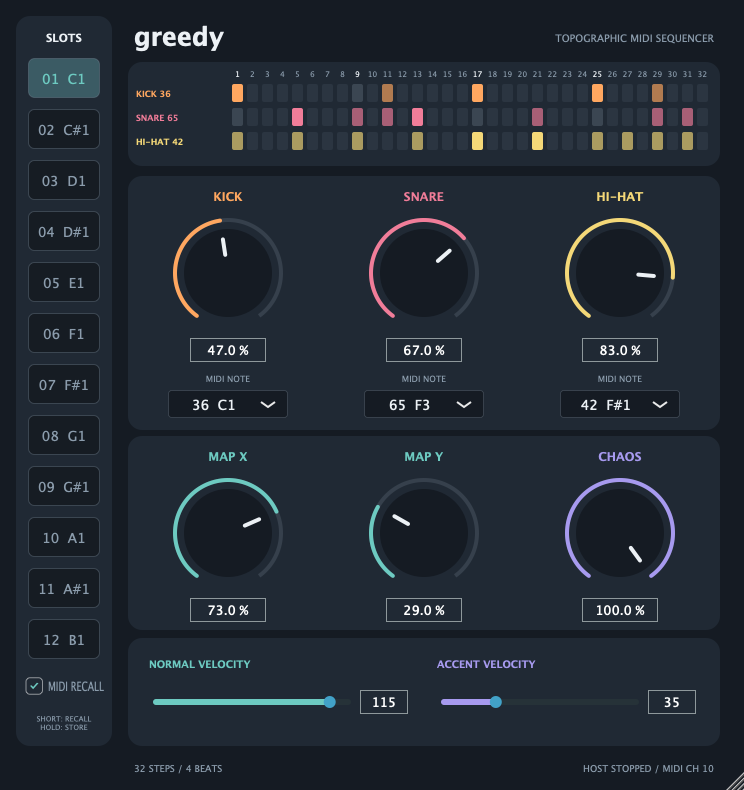
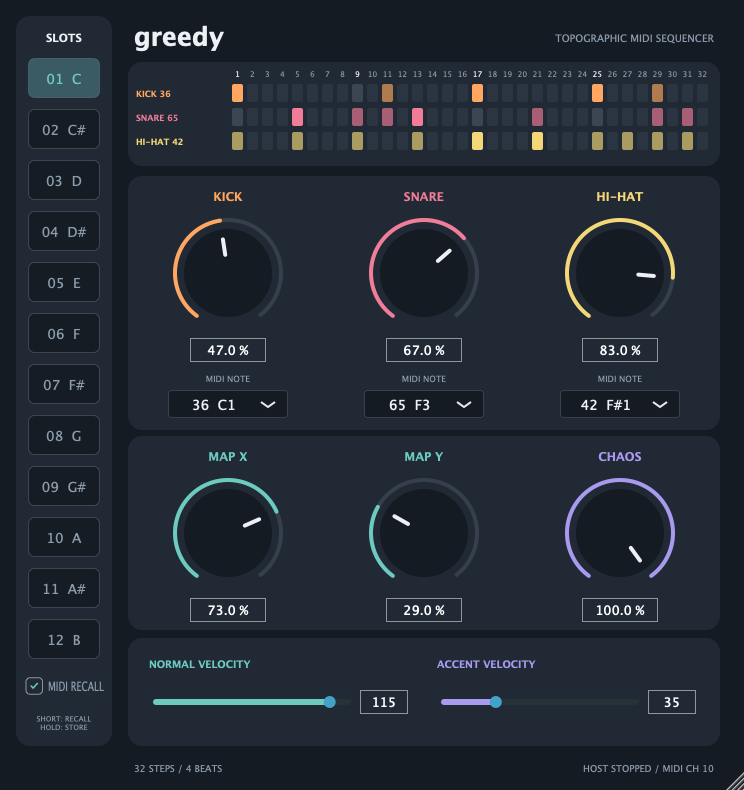
map all midi notes

diff --git a/Tests/PluginTests.cpp b/Tests/PluginTests.cpp
@@ -48,6 +48,9 @@ int main(int argc, char** argv)
             "plugin exposes no audio buses");
     require(processor.getParameters().size() == 12,
             "knobs, note selectors, velocity levels, and MIDI recall switch are parameters");
+    for (int note = 0; note < 128; ++note)
+        require(GreedyAudioProcessor::slotForMidiNote(note) == note % 12,
+                "every MIDI octave maps chromatically across the twelve slots");
 
     setParameter(processor, "kickDensity", 100);
     setParameter(processor, "snareDensity", 0);
@@ -76,9 +79,11 @@ int main(int argc, char** argv)
     require(first.getVelocity() == 47, "configured normal velocity reaches actual JUCE output");
 
     host.playing = false;
+    midi.clear();
     processor.processBlock(audio, midi);
     require(midi.getNumEvents() == 1 && (*midi.begin()).getMessage().isNoteOff(),
             "host stop releases the actual MIDI note");
+    midi.clear();
     processor.processBlock(audio, midi);
     require(midi.isEmpty(), "stopped processor stays silent");
     require(processor.getPatternDisplay().currentStep == -1,
@@ -107,13 +112,16 @@ int main(int argc, char** argv)
             "button recall does not change the global MIDI recall switch");
 
     host.playing = true;
+    midi.clear();
     processor.processBlock(audio, midi);
     require(!midi.isEmpty(), "restart generates a fresh note");
+    midi.clear();
     processor.processBlockBypassed(audio, midi);
     require(midi.getNumEvents() == 1 && (*midi.begin()).getMessage().isNoteOff(),
             "bypass releases held MIDI notes");
 
     processor.setPlayHead(nullptr);
+    midi.clear();
     processor.processBlock(audio, midi);
     require(midi.isEmpty(), "missing host transport produces no notes");
 
@@ -260,7 +268,7 @@ int main(int argc, char** argv)
     host.playing = true;
     host.ppq = 0.0;
     midi.clear();
-    midi.addEvent(juce::MidiMessage::noteOn(1, GreedyAudioProcessor::slotMidiNote(0),
+    midi.addEvent(juce::MidiMessage::noteOn(1, 84, // C in a high octave
                                            static_cast<juce::uint8>(100)), 0);
     processor.processBlock(audio, midi);
     require(midi.getNumEvents() == 1, "disabled slot trigger is consumed rather than passed through");
@@ -273,7 +281,7 @@ int main(int argc, char** argv)
     setParameter(processor, "midiRecallEnabled", 1);
     processor.prepareToPlay(48000, 512);
     midi.clear();
-    midi.addEvent(juce::MidiMessage::noteOn(1, GreedyAudioProcessor::slotMidiNote(0),
+    midi.addEvent(juce::MidiMessage::noteOn(1, 0, // C in the lowest MIDI octave
                                            static_cast<juce::uint8>(100)), 0);
     processor.processBlock(audio, midi);
     require(midi.getNumEvents() == 1, "slot trigger note is consumed rather than passed through");

diff --git a/Source/PluginEditor.cpp b/Source/PluginEditor.cpp
@@ -11,6 +11,9 @@ const std::array<juce::Colour, 6> accents {
     juce::Colour(0xffffa760), juce::Colour(0xfff17d99), juce::Colour(0xfff4d878),
     juce::Colour(0xff6dcac1), juce::Colour(0xff6dcac1), juce::Colour(0xffa79aef)
 };
+const std::array<const char*, 12> pitchClassNames {
+    "C", "C#", "D", "D#", "E", "F", "F#", "G", "G#", "A", "A#", "B"
+};
 constexpr int baseWidth = 744;
 constexpr int baseHeight = 790;
 constexpr int mainOffset = 104;
@@ -28,12 +31,12 @@ juce::AffineTransform contentTransform(int width, int height)
 GreedySlotButton::GreedySlotButton(GreedyAudioProcessor& p, int slotIndex)
     : processor(p), slot(slotIndex)
 {
-    const auto note = GreedyAudioProcessor::slotMidiNote(slot);
     setButtonText(juce::String(slot + 1).paddedLeft('0', 2) + "  "
-        + juce::MidiMessage::getMidiNoteName(note, true, true, 3));
+        + pitchClassNames[static_cast<std::size_t>(slot)]);
     setName("SLOT " + juce::String(slot + 1));
-    setTooltip("Short press: recall. Hold for 600 ms: store current settings. MIDI note "
-        + juce::String(note) + " recalls this slot.");
+    setTooltip("Short press: recall. Hold for 600 ms: store current settings. Every "
+        + juce::String(pitchClassNames[static_cast<std::size_t>(slot)])
+        + " note recalls this slot.");
     onClick = [this]
     {
         if (!longPressTriggered)
@@ -137,7 +140,8 @@ GreedyAudioProcessorEditor::GreedyAudioProcessorEditor(GreedyAudioProcessor& p)
     }
     midiRecallToggle.setButtonText("MIDI RECALL");
     midiRecallToggle.setName("MIDI SNAPSHOT RECALL");
-    midiRecallToggle.setTooltip("Enable MIDI notes C1-B1 to recall slots. Slot buttons remain active.");
+    midiRecallToggle.setTooltip("Enable MIDI notes in every octave to recall slots by pitch class. "
+                                "Slot buttons remain active.");
     midiRecallToggle.setColour(juce::ToggleButton::tickColourId, accents[3]);
     midiRecallToggle.setColour(juce::ToggleButton::textColourId, muted);
     controls.addAndMakeVisible(midiRecallToggle);

diff --git a/Source/PluginProcessor.h b/Source/PluginProcessor.h
@@ -47,8 +47,10 @@ public:
     juce::AudioProcessorValueTreeState parameters;
     static constexpr int midiChannel = 10;
     static constexpr int slotCount = 12;
-    static constexpr int firstSlotMidiNote = 36;
-    static constexpr int slotMidiNote(int slot) noexcept { return firstSlotMidiNote + slot; }
+    static constexpr int slotForMidiNote(int note) noexcept
+    {
+        return note >= 0 && note < 128 ? note % slotCount : -1;
+    }
 
 private:
     static constexpr int storedParameterCount = 11;

diff --git a/Source/PluginProcessor.cpp b/Source/PluginProcessor.cpp
@@ -218,9 +218,7 @@ void GreedyAudioProcessor::processBlock(juce::AudioBuffer<float>& audio, juce::M
             const auto message = metadata.getMessage();
             if (message.isNoteOn())
             {
-                const auto slot = message.getNoteNumber() - firstSlotMidiNote;
-                if (slot >= 0 && slot < slotCount)
-                    requestMidiRecall(slot);
+                requestMidiRecall(slotForMidiNote(message.getNoteNumber()));
             }
         }
     }

diff --git a/README.md b/README.md
@@ -16,7 +16,8 @@ instrument in a host that supports MIDI output from VST3 plugins.
 - **Chaos:** increases per-part hit levels with a new perturbation each pattern.
 - **Normal / Accent Velocity:** MIDI note-on velocities from 1–127. Defaults: 90 and 120.
 - **Slots 1–12:** short press recalls a stored setup; hold for 600 ms to store all
-  eleven parameter values. MIDI notes 36–47 (C1–B1) recall slots 1–12 on any channel.
+  eleven parameter values. Slots map chromatically from C through B: every C recalls
+  slot 1, every C♯ recalls slot 2, and so on across every octave and MIDI channel.
 - **MIDI Recall:** enables or disables slot recall from MIDI notes. The slot buttons
   and all sequencer behavior remain active while it is disabled.
 
